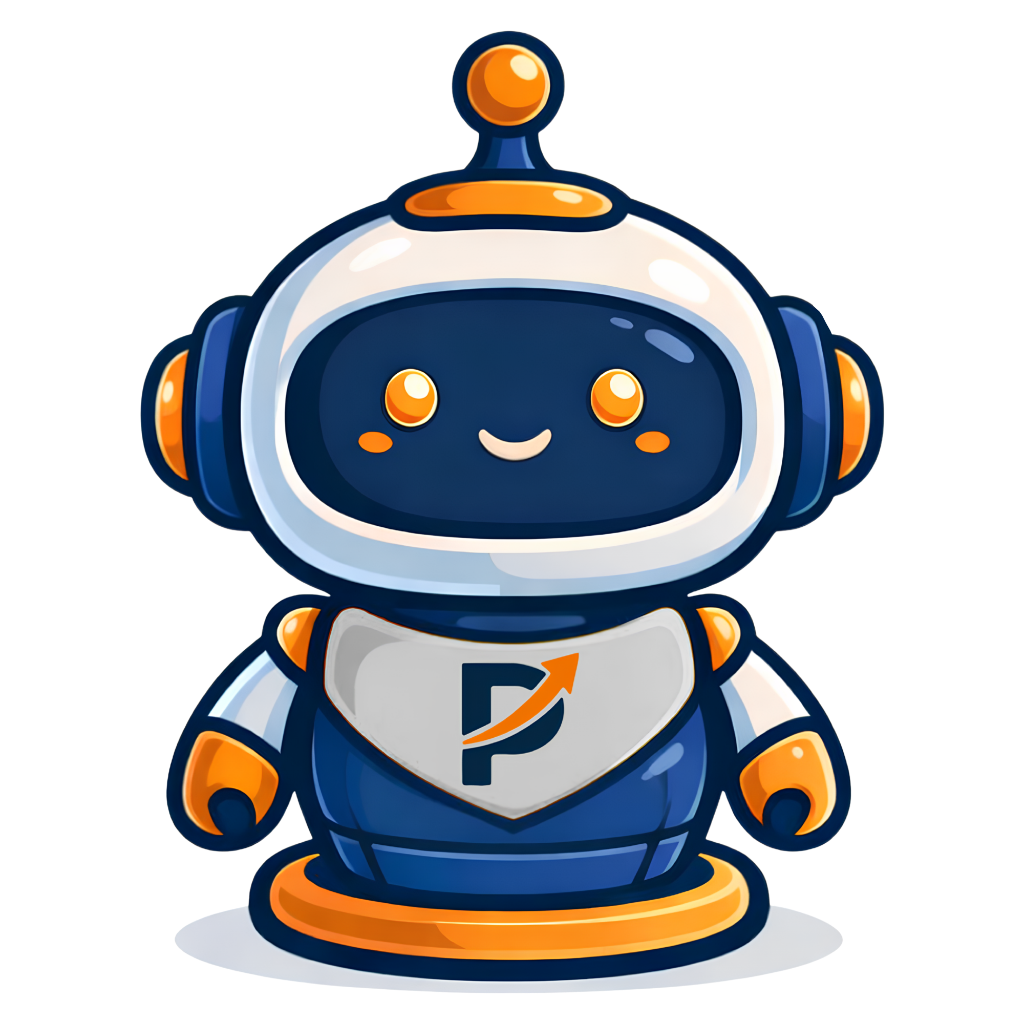
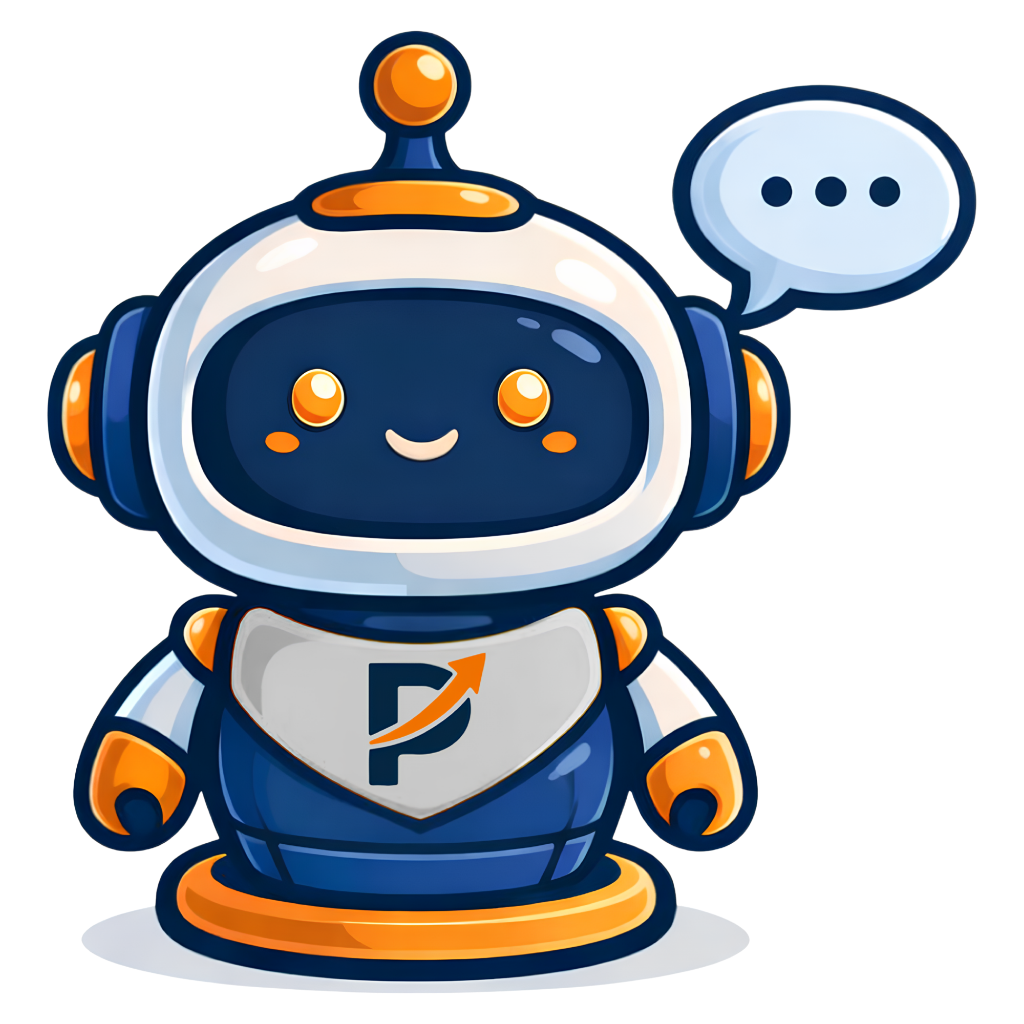
feat(ui): implement header dropdowns and update mascot
- Header: Refactored desktop navigation into Platform, Investment, Resources dropdowns.
- ROI Calculator: Fixed unauthorized brown color to Brand Primary.
- Assets: Updated Pasi mascot images to latest version.

diff --git a/components/header.tsx b/components/header.tsx
@@ -126,27 +126,74 @@ export function Header() {
               <Logo size="md" theme="light" showMotto={false} />
             </Link>
 
-            {/* Desktop Nav */}
-            <nav className="hidden md:flex items-center gap-8">
-              {navLinks.map((link) => (
-                <Link
-                  key={link.name}
-                  href={link.href}
-                  className="text-sm font-medium text-[#1F2328] hover:text-[#EF7202] transition-colors"
-                >
-                  {link.name}
-                </Link>
-              ))}
-              <span className="w-px h-4 bg-[#E5E6E8]" />
-              {extraLinks.map((link) => (
-                <Link
-                  key={link.name}
-                  href={link.href}
-                  className="text-sm font-medium text-[#535454] hover:text-[#EF7202] transition-colors"
-                >
-                  {link.name}
-                </Link>
-              ))}
+            {/* Desktop Nav with Dropdowns */}
+            <nav className="hidden md:flex items-center gap-6">
+              {/* Platform Group */}
+              <DropdownMenu>
+                <DropdownMenuTrigger className="flex items-center gap-1 text-sm font-medium text-[#1F2328] hover:text-[#EF7202] transition-colors outline-none cursor-pointer">
+                  Platform <ChevronDown size={14} />
+                </DropdownMenuTrigger>
+                <DropdownMenuContent align="start" className="w-48 bg-white border-[#E5E6E8] p-2 shadow-lg rounded-xl">
+                  <DropdownMenuItem asChild>
+                    <Link href="#nasil-calisir" className="cursor-pointer w-full p-2 hover:bg-slate-50 rounded-md font-medium text-slate-700">
+                      {t("howItWorks")}
+                    </Link>
+                  </DropdownMenuItem>
+                  <DropdownMenuItem asChild>
+                    <Link href="/about" className="cursor-pointer w-full p-2 hover:bg-slate-50 rounded-md font-medium text-slate-700">
+                      Hakkımızda
+                    </Link>
+                  </DropdownMenuItem>
+                  <DropdownMenuItem asChild>
+                    <Link href="#faq" className="cursor-pointer w-full p-2 hover:bg-slate-50 rounded-md font-medium text-slate-700">
+                      {t("faq")}
+                    </Link>
+                  </DropdownMenuItem>
+                  <DropdownMenuItem asChild>
+                    <Link href="/iletisim" className="cursor-pointer w-full p-2 hover:bg-slate-50 rounded-md font-medium text-slate-700">
+                      İletişim
+                    </Link>
+                  </DropdownMenuItem>
+                </DropdownMenuContent>
+              </DropdownMenu>
+
+              {/* Investment Group */}
+              <DropdownMenu>
+                <DropdownMenuTrigger className="flex items-center gap-1 text-sm font-medium text-[#1F2328] hover:text-[#EF7202] transition-colors outline-none cursor-pointer">
+                  Yatırım <ChevronDown size={14} />
+                </DropdownMenuTrigger>
+                <DropdownMenuContent align="start" className="w-48 bg-white border-[#E5E6E8] p-2 shadow-lg rounded-xl">
+                  <DropdownMenuItem asChild>
+                    <Link href="#portfoy" className="cursor-pointer w-full p-2 hover:bg-slate-50 rounded-md font-medium text-[#EF7202]">
+                      {t("portfolio")}
+                    </Link>
+                  </DropdownMenuItem>
+                  <DropdownMenuItem asChild>
+                    <Link href="/harita" className="cursor-pointer w-full p-2 hover:bg-slate-50 rounded-md font-medium text-slate-700">
+                      Harita & Konumlar
+                    </Link>
+                  </DropdownMenuItem>
+                </DropdownMenuContent>
+              </DropdownMenu>
+
+              {/* Resources Group */}
+              <DropdownMenu>
+                <DropdownMenuTrigger className="flex items-center gap-1 text-sm font-medium text-[#1F2328] hover:text-[#EF7202] transition-colors outline-none cursor-pointer">
+                  Kaynaklar <ChevronDown size={14} />
+                </DropdownMenuTrigger>
+                <DropdownMenuContent align="start" className="w-48 bg-white border-[#E5E6E8] p-2 shadow-lg rounded-xl">
+                  <DropdownMenuItem asChild>
+                    <Link href="/neden-amerika" className="cursor-pointer w-full p-2 hover:bg-slate-50 rounded-md font-medium text-slate-700">
+                      {tNav("whyUSA")}
+                    </Link>
+                  </DropdownMenuItem>
+                  <DropdownMenuItem asChild>
+                    <Link href="/vergilendirme" className="cursor-pointer w-full p-2 hover:bg-slate-50 rounded-md font-medium text-slate-700">
+                      {tNav("taxLaw")}
+                    </Link>
+                  </DropdownMenuItem>
+                </DropdownMenuContent>
+              </DropdownMenu>
             </nav>
           </div>
 

diff --git a/components/roi-calculator.tsx b/components/roi-calculator.tsx
@@ -85,8 +85,8 @@ export function RoiCalculator() {
         <Card className="p-6 sm:p-8 bg-white border-[#e5e4df] shadow-lg relative overflow-hidden rounded-2xl">
             {/* Header */}
             <div className="flex items-center gap-3 mb-6">
-                <div className="w-10 h-10 bg-[#a3452b]/10 rounded-lg flex items-center justify-center">
-                    <Calculator className="text-[#a3452b] w-5 h-5" />
+                <div className="w-10 h-10 bg-primary/10 rounded-lg flex items-center justify-center">
+                    <Calculator className="text-primary w-5 h-5" />
                 </div>
                 <div>
                     <h3 className="text-xl font-semibold text-[#151513]">{t("title")}</h3>
@@ -99,10 +99,10 @@ export function RoiCalculator() {
                 <div className="space-y-3">
                     <div className="flex justify-between text-sm">
                         <span className="flex items-center gap-2 text-[#6b6b67]">
-                            <Building2 size={14} className="text-[#a3452b]" />
+                            <Building2 size={14} className="text-primary" />
                             {t("purchasePrice")}
                         </span>
-                        <span className="text-[#a3452b] font-semibold">${purchasePrice.toLocaleString()}</span>
+                        <span className="text-primary font-semibold">${purchasePrice.toLocaleString()}</span>
                     </div>
                     <Slider
                         value={[purchasePrice]}
@@ -117,7 +117,7 @@ export function RoiCalculator() {
                 {/* Holding Period - Compact */}
                 <div className="flex items-center gap-3 flex-wrap">
                     <span className="text-sm text-[#6b6b67] flex items-center gap-1">
-                        <Calendar size={14} className="text-[#a3452b]" />
+                        <Calendar size={14} className="text-primary" />
                         Süre:
                     </span>
                     {holdingPeriods.map((years) => (
@@ -125,7 +125,7 @@ export function RoiCalculator() {
                             key={years}
                             onClick={() => setHoldingPeriod(years)}
                             className={`px-3 py-1.5 rounded-lg text-sm font-medium transition-all ${holdingPeriod === years
-                                ? "bg-[#a3452b] text-white"
+                                ? "bg-primary text-white"
                                 : "bg-[#f5f3ed] text-[#151513] hover:bg-[#e5e4df]"
                                 }`}
                         >
@@ -150,7 +150,7 @@ export function RoiCalculator() {
                         <p className="text-xs text-[#6b6b67] mb-1">{holdingPeriod}Y Değer Artışı</p>
                         <p className="text-2xl font-bold text-[#22c55e]">+${Math.round(appreciationAmount / 1000)}K</p>
                     </div>
-                    <div className="bg-[#a3452b] rounded-xl p-4 text-center">
+                    <div className="bg-primary rounded-xl p-4 text-center">
                         <p className="text-xs text-white/70 mb-1">{holdingPeriod}Y Toplam ROI</p>
                         <p className="text-2xl font-bold text-white">{totalRoiPercent.toFixed(0)}%</p>
                     </div>
@@ -166,15 +166,15 @@ export function RoiCalculator() {
                 {isGuest && (
                     <div className="absolute inset-0 z-50 bg-white/60 backdrop-blur-md flex flex-col items-center justify-center text-center p-6 rounded-2xl">
                         <div className="bg-white p-8 rounded-2xl shadow-xl max-w-sm border border-[#e5e4df]">
-                            <div className="w-14 h-14 bg-[#a3452b]/10 rounded-xl flex items-center justify-center mx-auto mb-5">
-                                <Lock className="w-7 h-7 text-[#a3452b]" />
+                            <div className="w-14 h-14 bg-primary/10 rounded-xl flex items-center justify-center mx-auto mb-5">
+                                <Lock className="w-7 h-7 text-primary" />
                             </div>
                             <h3 className="text-xl font-semibold mb-2 text-[#151513]">Hesaplayıcıyı Açın</h3>
                             <p className="text-[#6b6b67] text-sm mb-6">
                                 ROI analizlerini görmek için ücretsiz üye olun.
                             </p>
                             <Button
-                                className="w-full h-12 font-medium bg-[#a3452b] hover:bg-[#8a3a24] text-white rounded-lg"
+                                className="w-full h-12 font-medium bg-primary hover:bg-primary/90 text-white rounded-lg"
                                 asChild
                             >
                                 <Link href={`/${locale}/signup`}>
